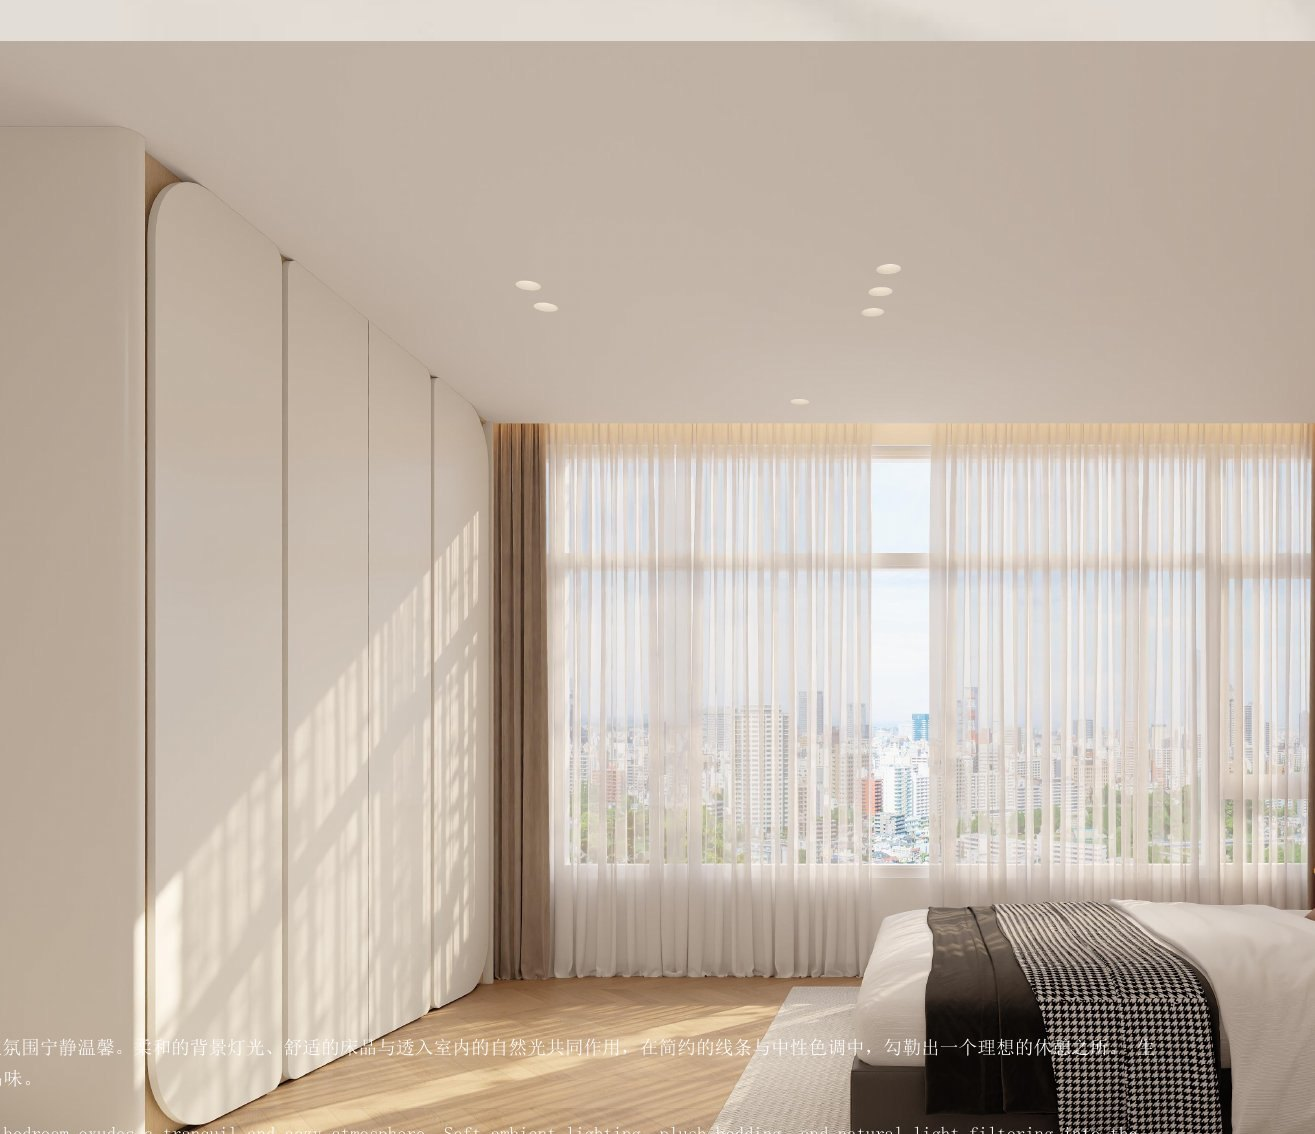
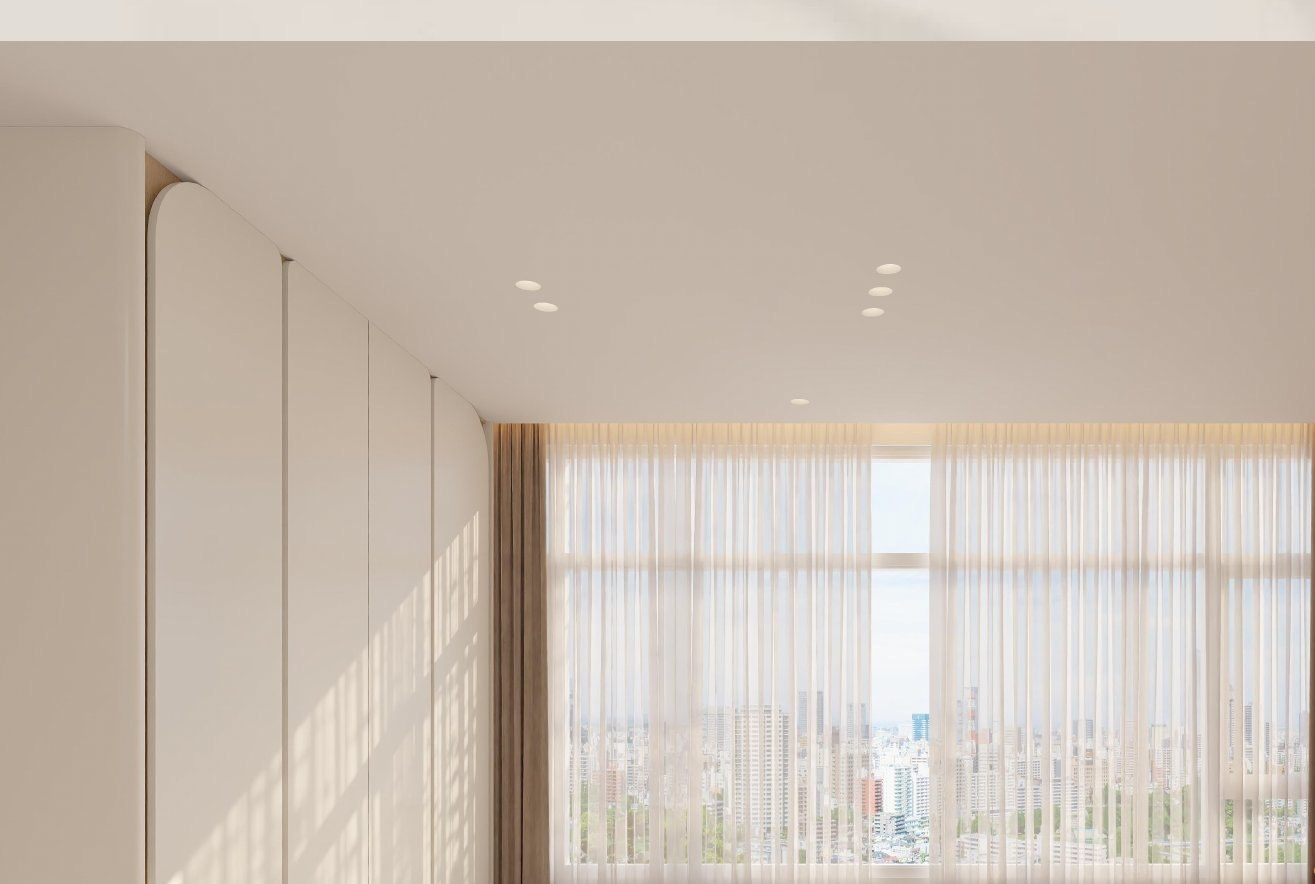
Crop remaining catalog text off the master bedroom photo

diff --git a/systems/steel.html b/systems/steel.html
@@ -10,7 +10,7 @@
   <link rel="preconnect" href="https://fonts.googleapis.com">
   <link rel="preconnect" href="https://fonts.gstatic.com" crossorigin>
   <link href="https://fonts.googleapis.com/css2?family=DM+Sans:opsz,wght@9..40,300;9..40,400;9..40,500;9..40,700;9..40,800&family=Fraunces:ital,opsz,wght@0,9..144,300;0,9..144,400;0,9..144,500;1,9..144,400&family=Noto+Sans+SC:wght@400;700;900&family=Noto+Serif+SC:wght@300;400;500&display=swap" rel="stylesheet">
-  <link rel="stylesheet" href="/styles.css?v=23" />
+  <link rel="stylesheet" href="/styles.css?v=24" />
   <style>.lp-hero { --lp-hero-img: url("/assets/systems/steel/hero.jpg?v=3"); }</style>
 </head>
 <body>
@@ -172,7 +172,7 @@
         <div class="lp-gallery__item lp-gallery__item--big"  style="background-image:url('/assets/case-huang/web/page-06.jpg')"></div>
         <div class="lp-gallery__item lp-gallery__item--tall" style="background-image:url('/assets/systems/steel/laundry.jpg')"></div>
         <div class="lp-gallery__item lp-gallery__item--half" style="background-image:url('/assets/case-huang/web/page-07.jpg')"></div>
-        <div class="lp-gallery__item lp-gallery__item--half" style="background-image:url('/assets/case-huang/web/page-13.jpg?v=2')"></div>
+        <div class="lp-gallery__item lp-gallery__item--half" style="background-image:url('/assets/case-huang/web/page-13.jpg?v=3')"></div>
       </div>
     </div>
   </section>

diff --git a/systems/timber.html b/systems/timber.html
@@ -10,7 +10,7 @@
   <link rel="preconnect" href="https://fonts.googleapis.com">
   <link rel="preconnect" href="https://fonts.gstatic.com" crossorigin>
   <link href="https://fonts.googleapis.com/css2?family=DM+Sans:opsz,wght@9..40,300;9..40,400;9..40,500;9..40,700;9..40,800&family=Fraunces:ital,opsz,wght@0,9..144,300;0,9..144,400;0,9..144,500;1,9..144,400&family=Noto+Sans+SC:wght@400;700;900&family=Noto+Serif+SC:wght@300;400;500&display=swap" rel="stylesheet">
-  <link rel="stylesheet" href="/styles.css?v=23" />
+  <link rel="stylesheet" href="/styles.css?v=24" />
   <style>.lp-hero { --lp-hero-img: url("/assets/systems/timber/hero.jpg?v=4"); }</style>
 </head>
 <body>

diff --git a/systems/veneer.html b/systems/veneer.html
@@ -10,7 +10,7 @@
   <link rel="preconnect" href="https://fonts.googleapis.com">
   <link rel="preconnect" href="https://fonts.gstatic.com" crossorigin>
   <link href="https://fonts.googleapis.com/css2?family=DM+Sans:opsz,wght@9..40,300;9..40,400;9..40,500;9..40,700;9..40,800&family=Fraunces:ital,opsz,wght@0,9..144,300;0,9..144,400;0,9..144,500;1,9..144,400&family=Noto+Sans+SC:wght@400;700;900&family=Noto+Serif+SC:wght@300;400;500&display=swap" rel="stylesheet">
-  <link rel="stylesheet" href="/styles.css?v=23" />
+  <link rel="stylesheet" href="/styles.css?v=24" />
   <style>.lp-hero { --lp-hero-img: url("/assets/systems/veneer/hero.jpg?v=4"); }</style>
 </head>
 <body>

diff --git a/styles.css b/styles.css
@@ -886,7 +886,7 @@ html[lang="zh-CN"] .room__quote { font-family: var(--serif-cn); font-style: norm
 .room__img--living   { background-image: url("assets/case-huang/web/page-09.jpg"); }
 .room__img--corridor { background-image: url("assets/case-huang/web/page-11.jpg?v=2"); }
 .room__img--hall     { background-image: url("assets/case-huang/web/page-12.jpg"); }
-.room__img--master   { background-image: url("assets/case-huang/web/page-13.jpg?v=2"); }
+.room__img--master   { background-image: url("assets/case-huang/web/page-13.jpg?v=3"); }
 .room__img--bath     { background-image: url("assets/case-huang/web/page-16.jpg?v=2"); }
 
 @media (max-width: 1000px) {

diff --git a/index.html b/index.html
@@ -10,7 +10,7 @@
   <link rel="preconnect" href="https://fonts.googleapis.com">
   <link rel="preconnect" href="https://fonts.gstatic.com" crossorigin>
   <link href="https://fonts.googleapis.com/css2?family=DM+Sans:opsz,wght@9..40,300;9..40,400;9..40,500;9..40,700;9..40,800&family=Fraunces:ital,opsz,wght@0,9..144,300;0,9..144,400;0,9..144,500;1,9..144,400&family=Noto+Sans+SC:wght@400;700;900&family=Noto+Serif+SC:wght@300;400;500&display=swap" rel="stylesheet">
-  <link rel="stylesheet" href="styles.css?v=23" />
+  <link rel="stylesheet" href="styles.css?v=24" />
 </head>
 <body>
   <!-- NAV -->
